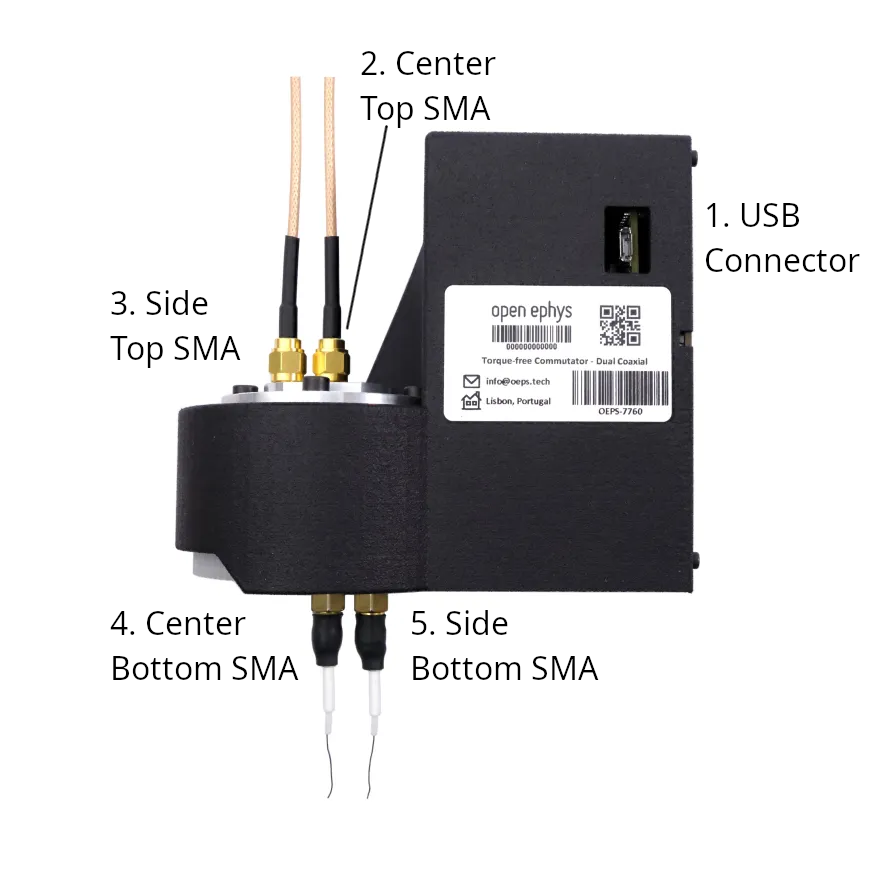
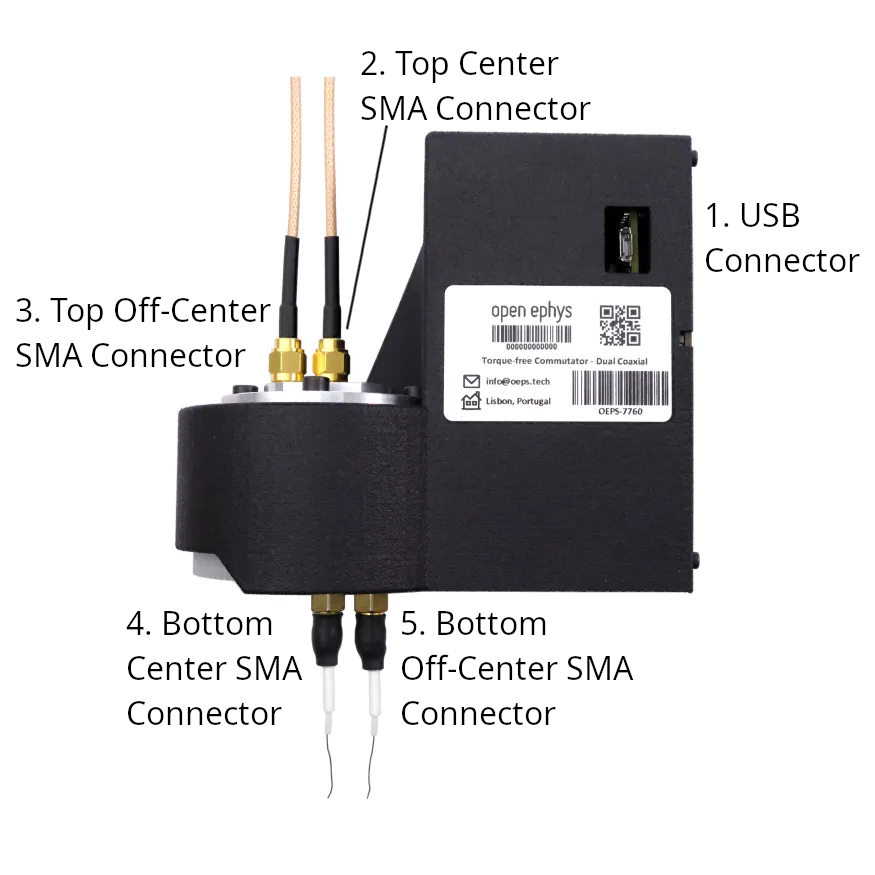
Change how dual commutator connectors are labelled

diff --git a/source/user-guide/mount-connect.rst b/source/user-guide/mount-connect.rst
@@ -41,30 +41,24 @@ Connecting
         :sync: coax
 
         ..  grid:: 
-            :margin: 0
 
             ..  grid-item::
 
                 ..  grid:: 1
-                    :margin: 0
-                    :padding: 0
 
                     ..  grid-item:: **1. USB Connector**
-                        :padding: 0
 
                         The commutator receives power and communicates to the PC over USB through
                         this interconnect. Newer commutators use USB-C. Older commutators use
                         Micro-USB.
 
                     ..  grid-item:: **2. Top SMA Connector**
-                        :padding: 0
 
                         The commutator's stator connects to a stationary data acquisition device
                         that has a coaxial port (e.g. Miniscope DAQ or ONIX breakout board) through
                         this SMA interconnect.
 
                     ..  grid-item:: **3. Bottom SMA Connector**
-                        :padding: 0
 
                         The commutator's rotor connects to a freely moving animal headstage that has
                         a coaxial connector through this SMA interconnect.
@@ -77,30 +71,24 @@ Connecting
         :sync: spi
 
         ..  grid:: 
-            :margin: 0
 
             ..  grid-item::
 
                 ..  grid:: 1
-                    :margin: 0
-                    :padding: 0
 
                     ..  grid-item:: **1. USB Connector**
-                        :padding: 0
 
                         The commutator receives power and communicates to the PC over USB through
                         this interconnect. Newer commutators use USB-C. Older commutators use
                         Micro-USB.
 
                     ..  grid-item:: **2. Top SPI Connector**
-                        :padding: 0
 
                         The commutator's stator connects to a stationary data acquisition device
                         that has a SPI port (e.g. the Open Ephys Acquisition Board) through
                         this 12-pin Omnetics PZN-12 interconnect.
 
                     ..  grid-item:: **3. Bottom SPI Connector**
-                        :padding: 0
 
                         The commutator's rotor connects to a freely moving animal headstage that has
                         a SPI connector through this 12-pin Omnetics PZN-12 interconnect.
@@ -113,57 +101,49 @@ Connecting
         :sync: dual
 
         ..  grid:: 
-            :margin: 0
 
             ..  grid-item::
 
                 ..  grid:: 1
-                    :margin: 0
-                    :padding: 0
 
                     ..  grid-item:: **1. USB Connector**
-                        :padding: 0
 
                         The commutator receives power and communicates to the PC over USB through
                         this interconnect. Newer commutators use USB-C. Older commutators use
                         Micro-USB.
 
-                    ..  grid-item:: **2. Center Top SMA Connector**
-                        :padding: 0
+                    ..  grid-item:: **2. Top Center SMA Connector**
 
-                        The commutator's center top SMA connects to a stationary data acquisition device
-                        that has a coaxial port (e.g. Miniscope DAQ or ONIX breakout board) through
-                        this SMA interconnect. It has electrical continuity with **4. Center Bottom
-                        SMA Connector**. 
+                        The commutator's top center SMA connector connects to a stationary data acquisition 
+                        device that has a coaxial port (e.g. Miniscope DAQ or ONIX breakout board) through
+                        this SMA interconnect. It has electrical continuity with **4. Bottom Center SMA 
+                        Connector**. 
 
-                    ..  grid-item:: **3. Side Top SMA Connector**
-                        :padding: 0
+                    ..  grid-item:: **3. Top Off-Center SMA Connector**
 
-                        The commutator's side top SMA connects to a stationary data acquisition device
-                        that has a coaxial port (e.g. Miniscope DAQ or ONIX breakout board) through
-                        this SMA interconnect. It has electrical continuity with **5. Side Bottom
+                        The commutator's top off-center SMA connector connects to a stationary data acquisition 
+                        device that has a coaxial port (e.g. Miniscope DAQ or ONIX breakout board) through
+                        this SMA interconnect. It has electrical continuity with **5. Bottom Off-Center
                         SMA Connector**.
 
-                    ..  grid-item:: **4. Center Bottom SMA Connectors**
-                        :padding: 0
+                    ..  grid-item:: **4. Bottom Center SMA Connector**
 
-                        The commutator's center bottom connects to a freely moving animal headstage that has
-                        a coaxial connector through this SMA interconnect. It has electrical
-                        continuity with **2. Center Top SMA Connector**.
-
-                    ..  grid-item:: **5. Side Bottom SMA Connectors**
-                        :padding: 0
-
-                        The commutator's side bottom connects to a freely moving animal headstage that has
-                        a coaxial connector through this SMA interconnect. It has electrical
-                        continuity with **3. Center Top SMA Connector**.
+                        The commutator's bottom center SMA connector connects to a freely moving animal 
+                        headstage that has a coaxial connector through this SMA interconnect. It has 
+                        electrical continuity with **2. Top Center SMA Connector**.
 
             ..  grid-item::
-                :child-align: center
-                :margin: 0
-                :padding: 0
+                :child-align: justify
 
                 ..  image:: /_static/images/dual-commutator.webp
+
+                ..  grid:: 1
+
+                    ..  grid-item:: **5. Bottom Off-Center SMA Connector**
+
+                        The commutator's bottom off-center SMA connector connects to a freely moving animal 
+                        headstage that has a coaxial connector through this SMA interconnect. It has 
+                        electrical continuity with **3. Top Off-Center SMA Connector**.
 
 ..  tip::
 
